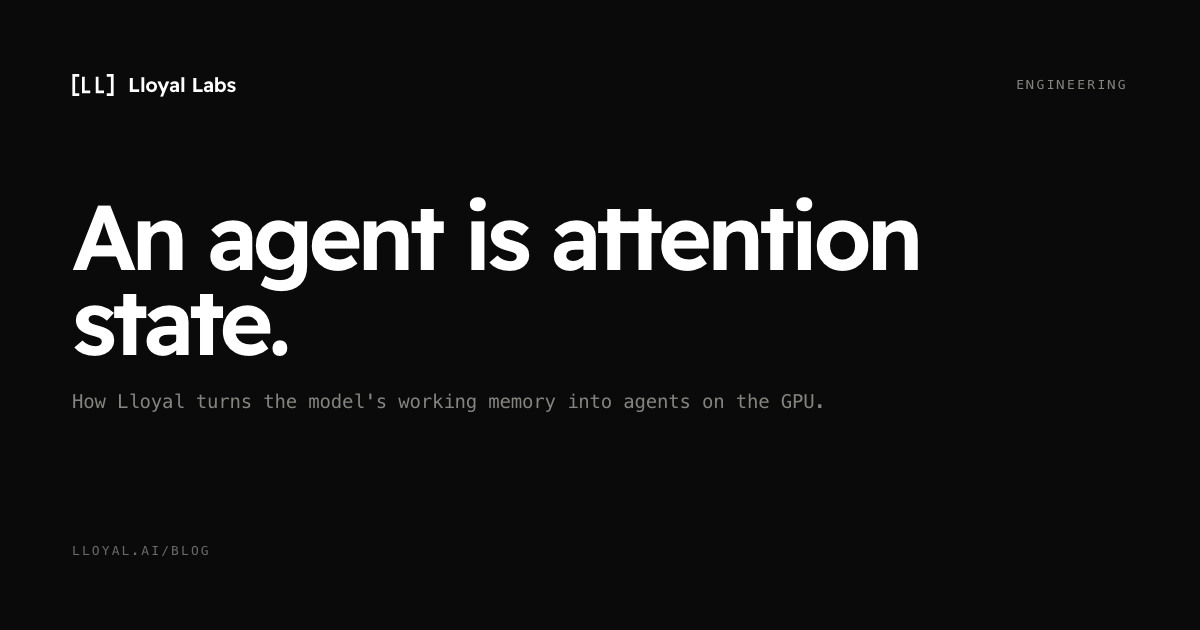
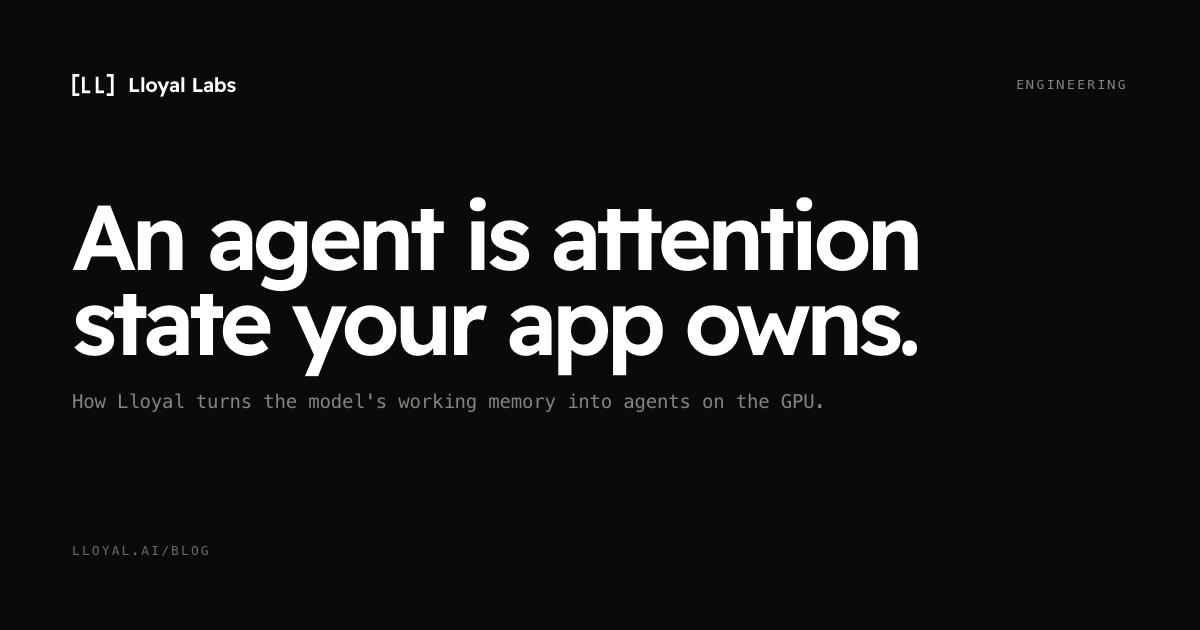
site: an agent is attention state your app owns
"An agent is attention state" was true and incomplete. It omits the half that
makes an agent programmable, and without it the sentence describes a row in a KV
cache - which is the flatness "agents are rows" had.

"Your app owns" supplies it, and supplies it as ownership rather than as a second
term. The post is explicit that these stay separate: structured ownership decides
what lives and dies together, application control decides what the owned
execution does next, and "most of the difficulty in agent systems comes from
conflating them". A tree of owned lifetimes governing a tree of live inference
state - one governs the other, they are not peers.

So the missing piece was the verb, not another noun. Six words for "an agent is a
tenancy lease on live model state, and the application owns the lease".

Card and page callout carry the same sentence.

Changed region(s): [[0.2158, 0.4825, 0.7708, 0.6032]]

diff --git a/public/blog/working-memory-into-agents/index.html b/public/blog/working-memory-into-agents/index.html
@@ -140,7 +140,7 @@
         <div>
           <p>Ask an agent framework where an agent's memory lives and you get two answers. There is the checkpoint — messages, tool results, scratchpad — which lives in your application. And there is the KV cache, which lives in someone else's datacentre and dies when the response leaves. Two memories, joined by serialisation &mdash; and almost everything that frustrates people about agent systems follows from that one fact.</p>
         </div>
-        <div class="thesis__principle">An agent is attention state.</div>
+        <div class="thesis__principle">An agent is attention state your app owns.</div>
       </section>
 
       <div class="shell wrap">
